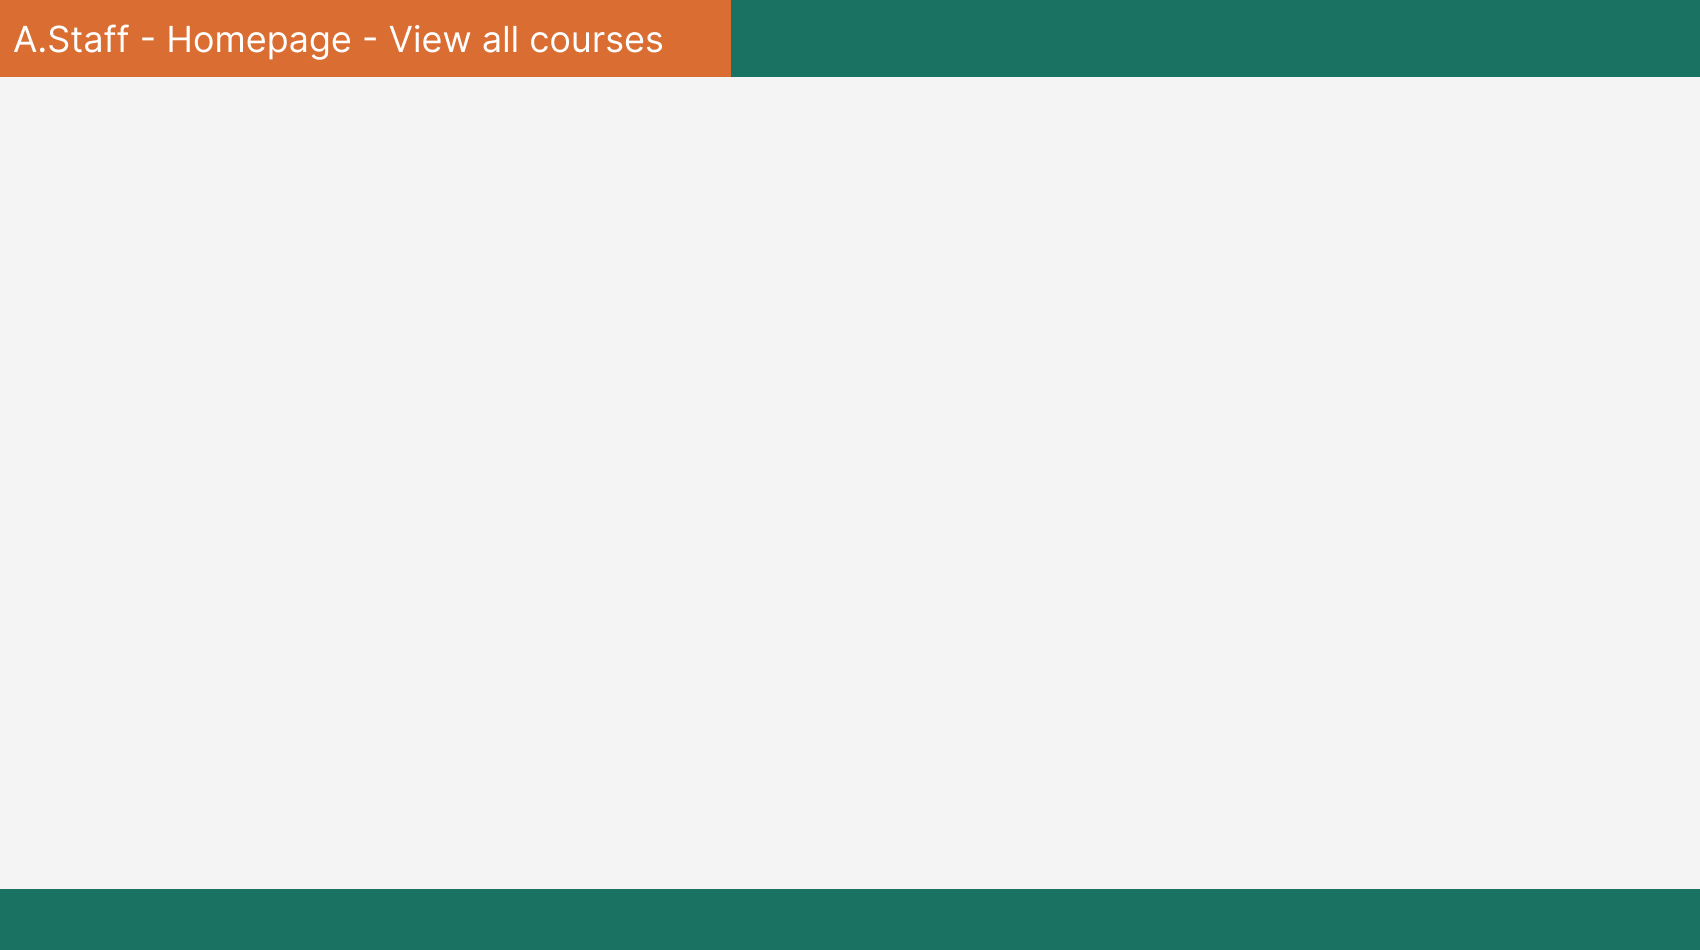
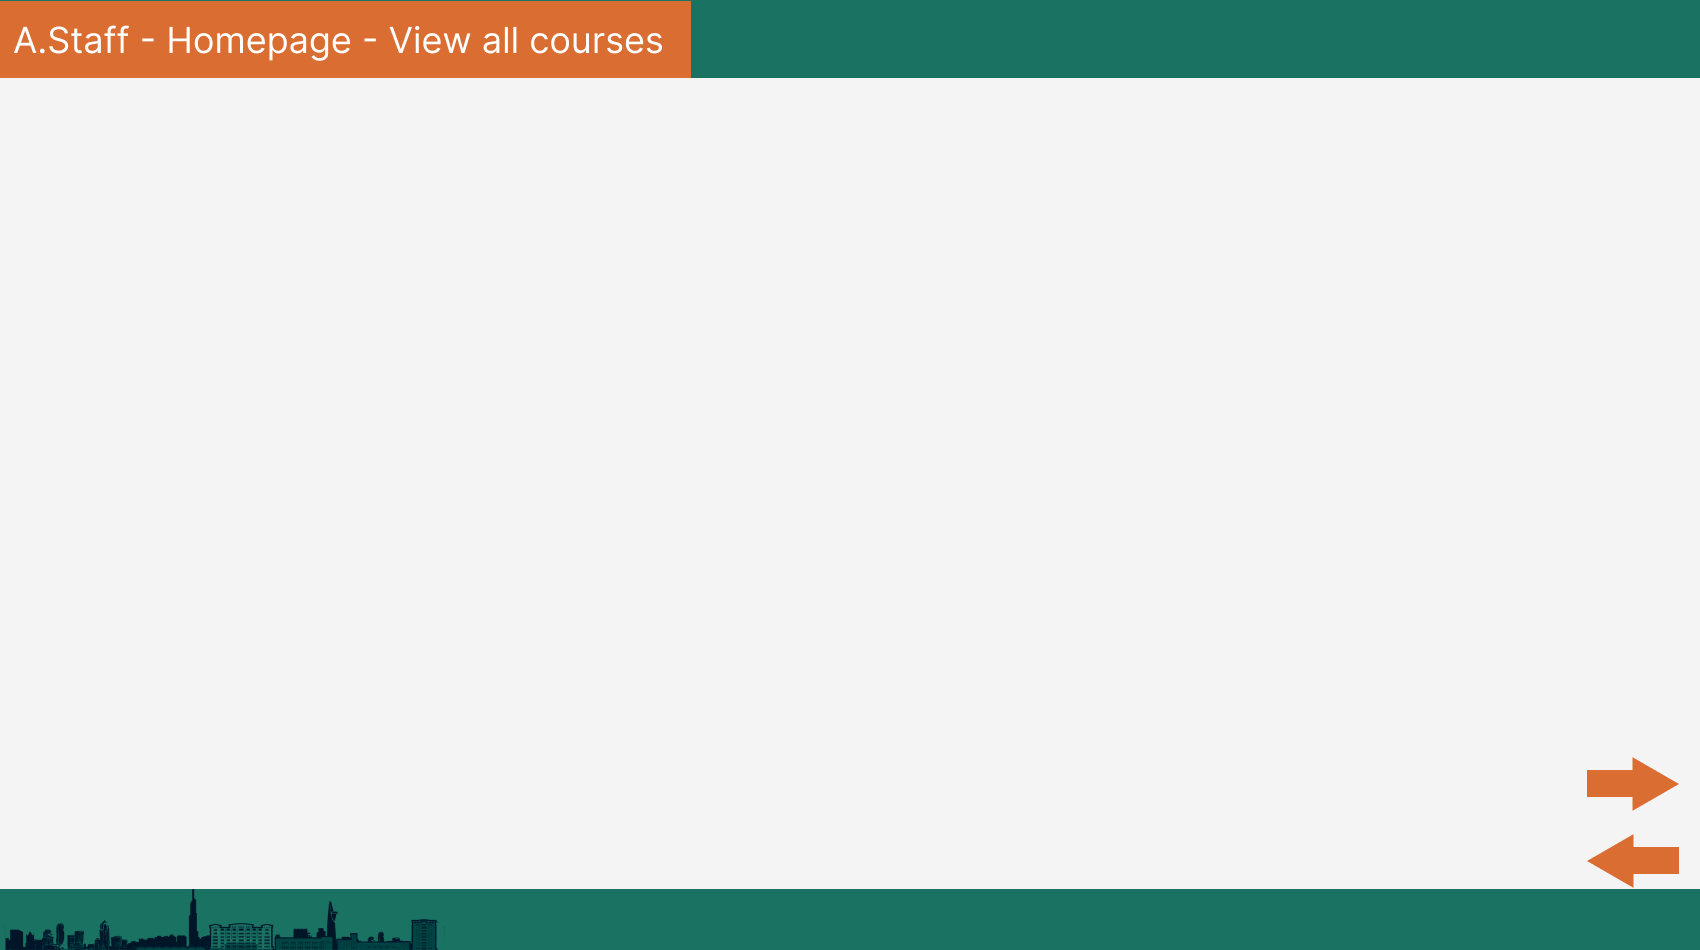
feat: Complete the View all course staff

diff --git a/SFML/Activity2.cpp b/SFML/Activity2.cpp
@@ -373,7 +373,7 @@ void Activity2::createSemesterStaff(Semester& semester)
     }
 }
 
-void Activity2::viewAllCourseStaff(vector<Course>& course)
+void Activity2::viewAllCourseStaff(vector<SchoolYear>& schoolyear)
 {
     sf::RenderWindow windowNext(sf::VideoMode(1700, 950), "All Course", sf::Style::Close | sf::Style::Titlebar);
 
@@ -384,18 +384,24 @@ void Activity2::viewAllCourseStaff(vector<Course>& course)
     sf::Texture textureNext;
     if (!textureNext.loadFromFile("Assets/ViewAllCourseStaff.png"))
         std::cout << "Could not load the YourCourseStudent image" << std::endl;
-    std::cout << "Generate Your course student sucess" << std::endl;
+    std::cout << "Generate View all course sucess" << std::endl;
     sf::Sprite background(textureNext);
 
+    Button nextPageBtn(1587.f, 753.f, 92.f, 62.f, "Next", fontNext, ORANGE);
+    Button prevPageBtn(1587.f, 815.f, 92.f, 62.f, "Prev", fontNext, ORANGE);
     Button goBackBtn(686, 766, 245, 66, "Go back", fontNext, ORANGE);
     vector<Text> allOfCourse;
-    for (int i = 0; i < course.size(); i++) {
-        Text temp(100.f, 100.f + 30 * i, course[i].getID(), fontNext, sf::Color(30, 30, 30), 25);
-        allOfCourse.push_back(temp);
-    }
 
+
+    vector<allCourseMenu> allCourseMenuBtn;
+    for (int i = 0; i < schoolyear.size(); i++) {
+        allCourseMenu temp(40, 90 + 230 * (i % 3), schoolyear[i], fontNext);
+        allCourseMenuBtn.push_back(temp);
+    }
+    int displayFrom = 0;
 
     while (windowNext.isOpen()) {
+        long long displayLimit = (displayFrom + 3) > allCourseMenuBtn.size() ? allCourseMenuBtn.size() : (displayFrom + 3);
         sf::Event event;
         while (windowNext.pollEvent(event)) {
             if (event.type == sf::Event::Closed)
@@ -405,14 +411,47 @@ void Activity2::viewAllCourseStaff(vector<Course>& course)
 
                 if (goBackBtn.isClicked(mousePos))
                     windowNext.close();
+
+                if (nextPageBtn.isClicked(mousePos)) {
+                    if (displayFrom + 3 <= allCourseMenuBtn.size())
+                        displayFrom += 3;
+                }
+
+                if (prevPageBtn.isClicked(mousePos)) {
+                    if (displayFrom - 3 >= 0)
+                        displayFrom -= 3;
+                }
+
+                for (int i = displayFrom; i < displayLimit; i++) {
+                    for (int j = 0; j < allCourseMenuBtn[i].listCoursesBtn1.size(); j++) {
+                        if (allCourseMenuBtn[i].listCoursesBtn1[j].isClicked(mousePos)) {
+                            courseInformation(schoolyear[i].semester[0], schoolyear[i].semester[0].courses[j]);
+                            return;
+                        }
+                    }
+
+                    for (int j = 0; j < allCourseMenuBtn[i].listCoursesBtn2.size(); j++) {
+                        if (allCourseMenuBtn[i].listCoursesBtn2[j].isClicked(mousePos)) {
+                            courseInformation(schoolyear[i].semester[1], schoolyear[i].semester[1].courses[j]);
+                            return;
+                        }
+                    }
+
+                    for (int j = 0; j < allCourseMenuBtn[i].listCoursesBtn3.size(); j++) {
+                        if (allCourseMenuBtn[i].listCoursesBtn3[j].isClicked(mousePos)) {
+                            courseInformation(schoolyear[i].semester[2], schoolyear[i].semester[2].courses[j]);
+                            return;
+                        }
+                    }
+                }
             }
 
         }
 
         windowNext.clear(sf::Color::White);
         windowNext.draw(background);
-        for (int i = 0; i < course.size(); i++) {
-            allOfCourse[i].draw(windowNext);
+        for (int i = displayFrom; i < displayLimit; i++) {
+            allCourseMenuBtn[i].draw(windowNext);
         }
         goBackBtn.draw(windowNext);
         windowNext.display();

diff --git a/SFML/Components.cpp b/SFML/Components.cpp
@@ -453,3 +453,53 @@ void schoolyearButton::draw(sf::RenderWindow& window)
     if (s2) sem2.draw(window);
     if (s3) sem3.draw(window);
 }
+
+allCourseMenu::allCourseMenu(float x, float y, SchoolYear& schoolyear, sf::Font& font)
+{
+    this->schoolyear = schoolyear;
+    std::string fiY = schoolyear.getYear().substr(0, 2);
+    std::string seY = schoolyear.getYear().substr(3, 2);
+    std::string YEAR = "20" + fiY + " - 20" + seY;
+
+    schoolyearTxt = Text(x, y, YEAR, font, BLACK, 32);
+    line = Button(x, y + 50, 1130, 0, "", font, BLACK);
+    
+    s1 = Text(x + 10, y + 70, "Semester1: ",font, GREEN, 32);
+    for (int i = 0; i < schoolyear.semester[0].courses.size(); i++) {
+        std::string temp = schoolyear.semester[0].courses[i].getID();
+        Button tempBtn(x + 200 + 130 * (i % 10), y + 70, 100, 35, temp, font, ORANGE);
+        listCoursesBtn1.push_back(tempBtn);
+    }
+
+    s2 = Text(x + 10, y + 122, "Semester2: ",font, GREEN, 32);
+    for (int i = 0; i < schoolyear.semester[1].courses.size(); i++) {
+        std::string temp = schoolyear.semester[1].courses[i].getID();
+        Button tempBtn(x + 200 + 130 * (i % 10), y + 122, 100, 35, temp, font, ORANGE);
+        listCoursesBtn2.push_back(tempBtn);
+    }
+
+    s3 = Text(x + 10, y + 174, "Semester3: ",font, GREEN, 32);
+    for (int i = 0; i < schoolyear.semester[2].courses.size(); i++) {
+        std::string temp = schoolyear.semester[2].courses[i].getID();
+        Button tempBtn(x + 200 + 130 * (i % 10), y + 174, 100, 35, temp, font, ORANGE);
+        listCoursesBtn3.push_back(tempBtn);
+    }
+}
+
+void allCourseMenu::draw(sf::RenderWindow& window)
+{
+    schoolyearTxt.draw(window);
+    line.draw(window);
+    s1.draw(window);
+    s2.draw(window);
+    s3.draw(window);
+
+    for (int i = 0; i < listCoursesBtn1.size(); i++)
+        listCoursesBtn1[i].draw(window);
+
+    for (int i = 0; i < listCoursesBtn2.size(); i++)
+        listCoursesBtn2[i].draw(window);
+
+    for (int i = 0; i < listCoursesBtn3.size(); i++)
+        listCoursesBtn3[i].draw(window);
+}

diff --git a/SFML/Components.h b/SFML/Components.h
@@ -1,12 +1,7 @@
 #pragma once
 #include "ExtraFunction.h"
 #include "Subject.h"
-
-
-
 #include "SchoolYear.h"
-
-
 #include <iomanip>
 
 class InputField {
@@ -156,6 +151,20 @@ public:
     schoolyearButton() {}
 
     schoolyearButton(float x, float y, SchoolYear& infor, sf::Font& font);
+
+    void draw(sf::RenderWindow& window);
+};
+
+class allCourseMenu {
+public:
+    Text schoolyearTxt;
+    Button line;
+    Text s1, s2, s3;
+    SchoolYear schoolyear;
+    vector<Button> listCoursesBtn1, listCoursesBtn2, listCoursesBtn3;
+    allCourseMenu() {}
+
+    allCourseMenu(float x, float y, SchoolYear& schoolyear, sf::Font& font);
 
     void draw(sf::RenderWindow& window);
 };

diff --git a/SFML/Activity2.h b/SFML/Activity2.h
@@ -5,10 +5,7 @@
 #include "Semester.h"
 
 //I assume that this class create sub-activity for student. 
-const sf::Color BLACK = sf::Color(18, 2, 2);
-const sf::Color GREEN = sf::Color(81, 161, 147);
-const sf::Color ORANGE = sf::Color(218, 110, 50);
-const sf::Color RED = sf::Color(144, 44, 44);
+
 class Activity2
 {
 public:
@@ -28,7 +25,7 @@ public:
 
 	static void createSemesterStaff(Semester & semester);
 
-	static void viewAllCourseStaff(vector<Course>& course);
+	static void viewAllCourseStaff(vector<SchoolYear>& schoolyear);
 
 	static void viewCourseInSemester(Semester& semester);
 

diff --git a/SFML/Activity.cpp b/SFML/Activity.cpp
@@ -545,7 +545,8 @@ void Activity::initHomePageStaffWindow(sf::RenderWindow& window)
                 }
 
                 if (viewAllCoursesBtn.isClicked(mousePos)) {
-                    Activity2::viewAllCourseStaff(existedCourse);
+                    //Activity2::viewAllCourseStaff(existedCourse);
+                    Activity2::viewAllCourseStaff(existedSchoolYear);
                 }
 
                 if (viewAllClassBtn.isClicked(mousePos)) {

diff --git a/SFML/Requirement.h b/SFML/Requirement.h
@@ -23,4 +23,7 @@
 
 //define namespace to work with files
 namespace fsys = std::filesystem;
-
+const sf::Color BLACK = sf::Color(18, 2, 2);
+const sf::Color GREEN = sf::Color(81, 161, 147);
+const sf::Color ORANGE = sf::Color(218, 110, 50);
+const sf::Color RED = sf::Color(144, 44, 44);
